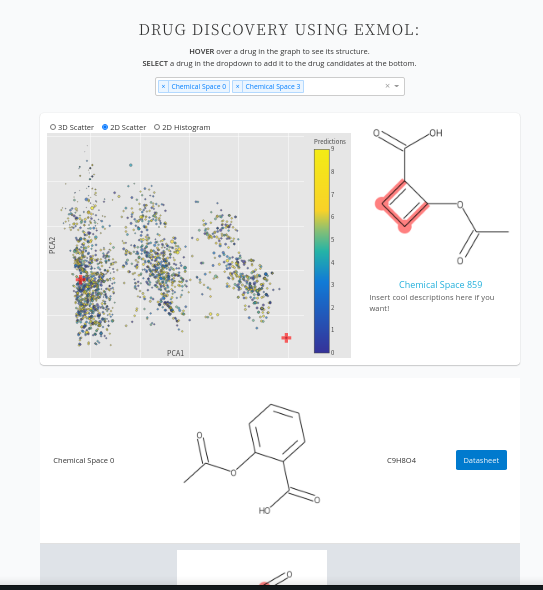
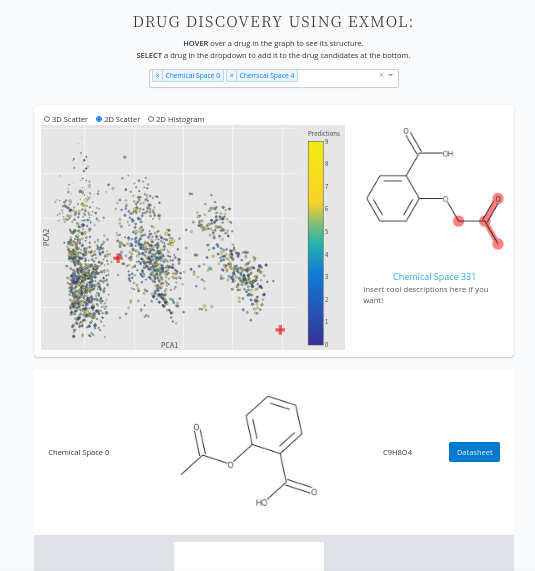
explanation added

diff --git a/README.md b/README.md
@@ -2,7 +2,7 @@
 
 ## About this app
 
-This is an app to visualize the counterfactual chemical space generated by [exmol](https://github.com/ur-whitelab/exmol) using dash template avaiable below. Minor modifications were made to the template to allow interactive display of the counterfactuals. 
+This is an app to interactively visualize the counterfactual chemical space generated by [exmol](https://github.com/ur-whitelab/exmol).  Generated counterfactuals can be displayed by hovering over the scatter plot using dash template avaiable below. Minor modifications were made to the template to allow interactive display of the counterfactuals. 
 
 Original repo: [plotly/dash-drug-discovery-demo](https://github.com/plotly/dash-sample-apps/tree/main/apps/dashr-drug-discovery)
 
